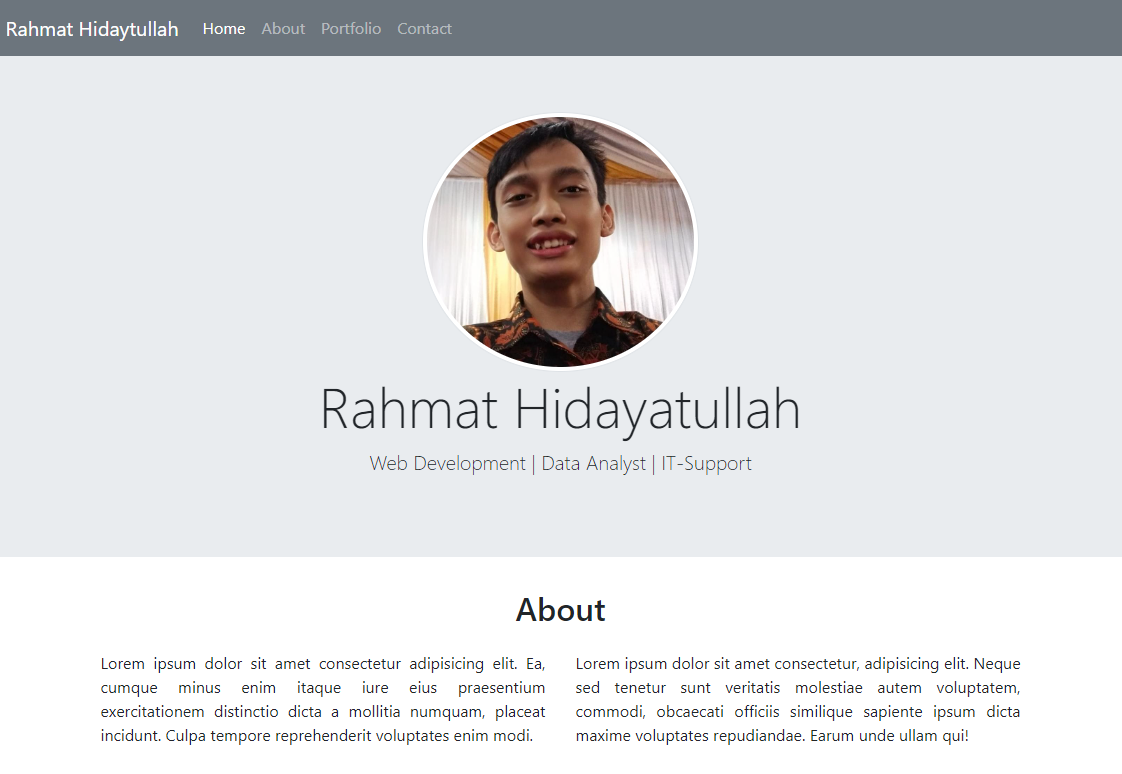
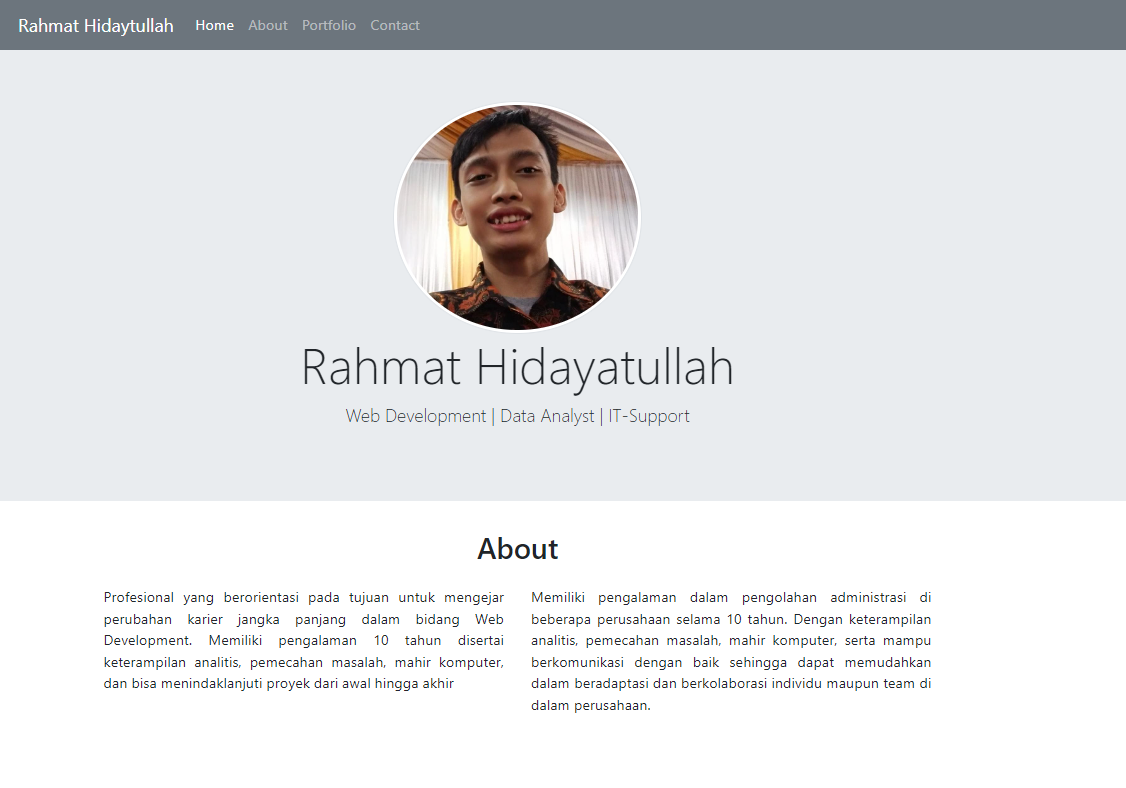
modified index and change portfolio

diff --git a/index.html b/index.html
@@ -145,7 +145,7 @@
             <div class="card" data-aos="flip-left" data-aos-duration="2000" data-aos-delay="300">
               <img src="img/projects/portfolio3.PNG" class="card-img-top" alt="portfolio3" />
               <div class="card-body">
-                <p class="card-text">Profesional yang berorientasi pada tujuan untuk mengejar perubahan karier jangka panjang dalam bidang Web Development. Memiliki pengalaman 10 tahun disertai keterampilan analitis, pemecahan masalah, mahir komputer, dan bisa menindaklanjuti proyek dari awal hingga akhir</p>
+                <p class="card-text">Memiliki pengalaman dalam pengolahan administrasi di beberapa perusahaan selama 10 tahun. Dengan keterampilan analitis, pemecahan masalah, mahir komputer, serta mampu berkomunikasi dengan baik sehingga dapat memudahkan dalam beradaptasi dan berkolaborasi individu maupun team di dalam perusahaan.</p>
                 <a href="https://rahmat-hidayatullah.github.io/portfolio-bootstrap3/" class="btn btn-primary">Portfolio Bootstrap 3</a>
               </div>
             </div>
@@ -155,7 +155,7 @@
             <div class="card" data-aos="flip-left" data-aos-duration="4500" data-aos-delay="500">
               <img src="img/projects/landingpage.PNG" class="card-img-top" alt="landingpage" />
               <div class="card-body">
-                <p class="card-text">"Bekerja dengan suasana hati yang lebih asik dan mempelajari hal baru setiap harinya."</p>
+                <p class="card-text">Bekerja dengan suasana hati yang lebih asik dan mempelajari hal baru setiap harinya.</p>
                 <a href="https://rahmat-hidayatullah.github.io/landingpage/" class="btn btn-primary">Landing Page</a>
               </div>
             </div>
@@ -164,7 +164,7 @@
             <div class="card" data-aos="flip-left" data-aos-duration="5000" data-aos-delay="750">
               <img src="img/projects/iglogin.PNG" class="card-img-top" alt="iglogin" />
               <div class="card-body">
-                <p class="card-text">"Instagram login tugas css eduwork free class"</p>
+                <p class="card-text">Instagram login latihan dari tugas css eduwork free class</p>
                 <a href="#" class="btn btn-primary">Instagram Login</a>
               </div>
             </div>
